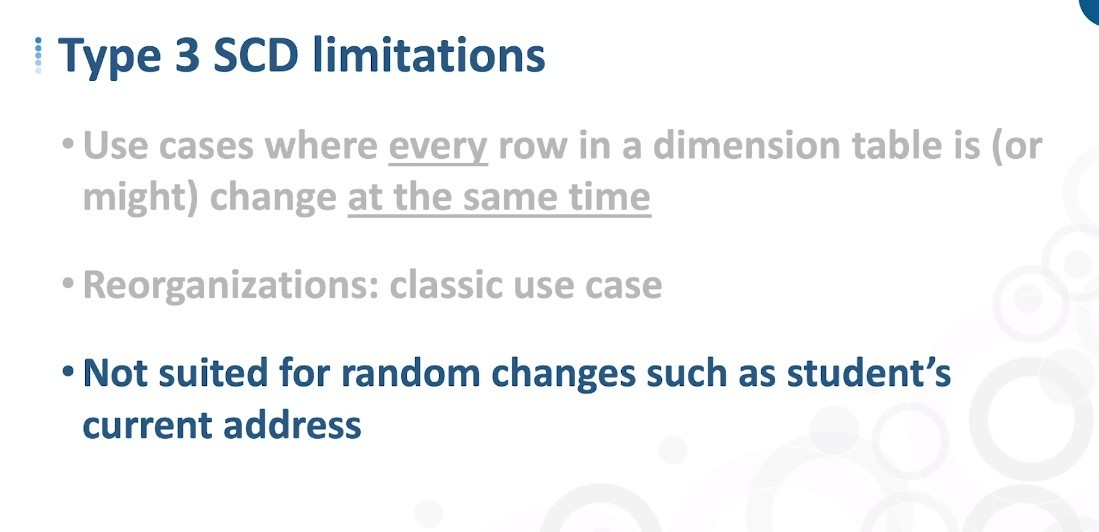
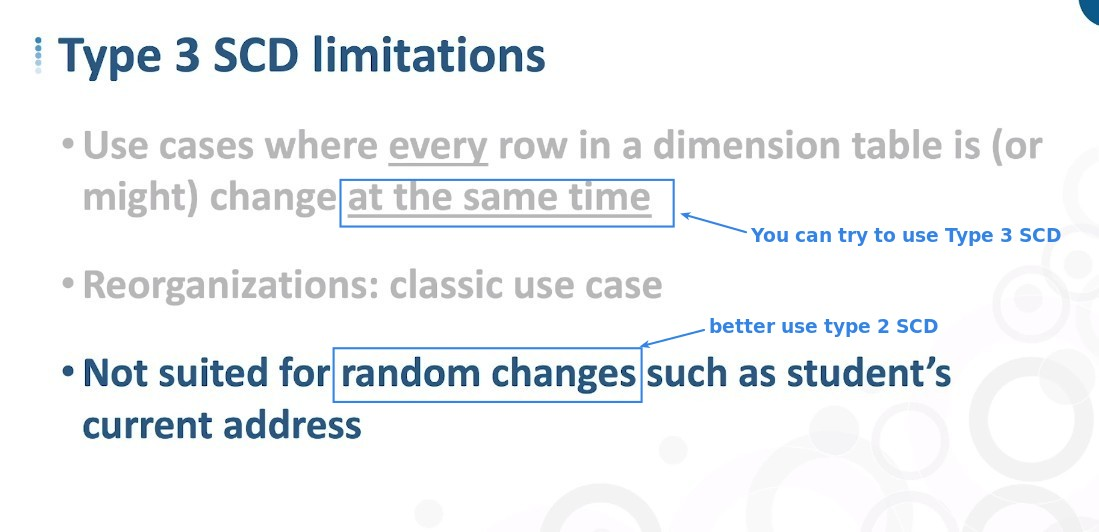
qq

diff --git a/7-history-through-scd/55-type-3-scd/memo.md b/7-history-through-scd/55-type-3-scd/memo.md
@@ -1,6 +1,12 @@
 ## **Type 3 SCD**
 
+### _Why_
+
 ![Alt compare - 2 to type 3](pic/01.jpg)
+
+- Although type 2 SCD can be very complete in preserving historical data, but the query is more complicated, in some cases we can use the much simpler type 3 SCD.
+
+### _What_
 
 ![Alt what is type 3 scd](pic/02.jpg)
 
@@ -13,6 +19,8 @@
 ![Alt what we want to report 1](pic/04.jpg)
 
 ![Alt what we want to report 2](pic/05.jpg)
+
+- If you use Type 2 SCD, the data required to query for the above reports will be very complicated.
 
 ### _Previous and current columns_
 
